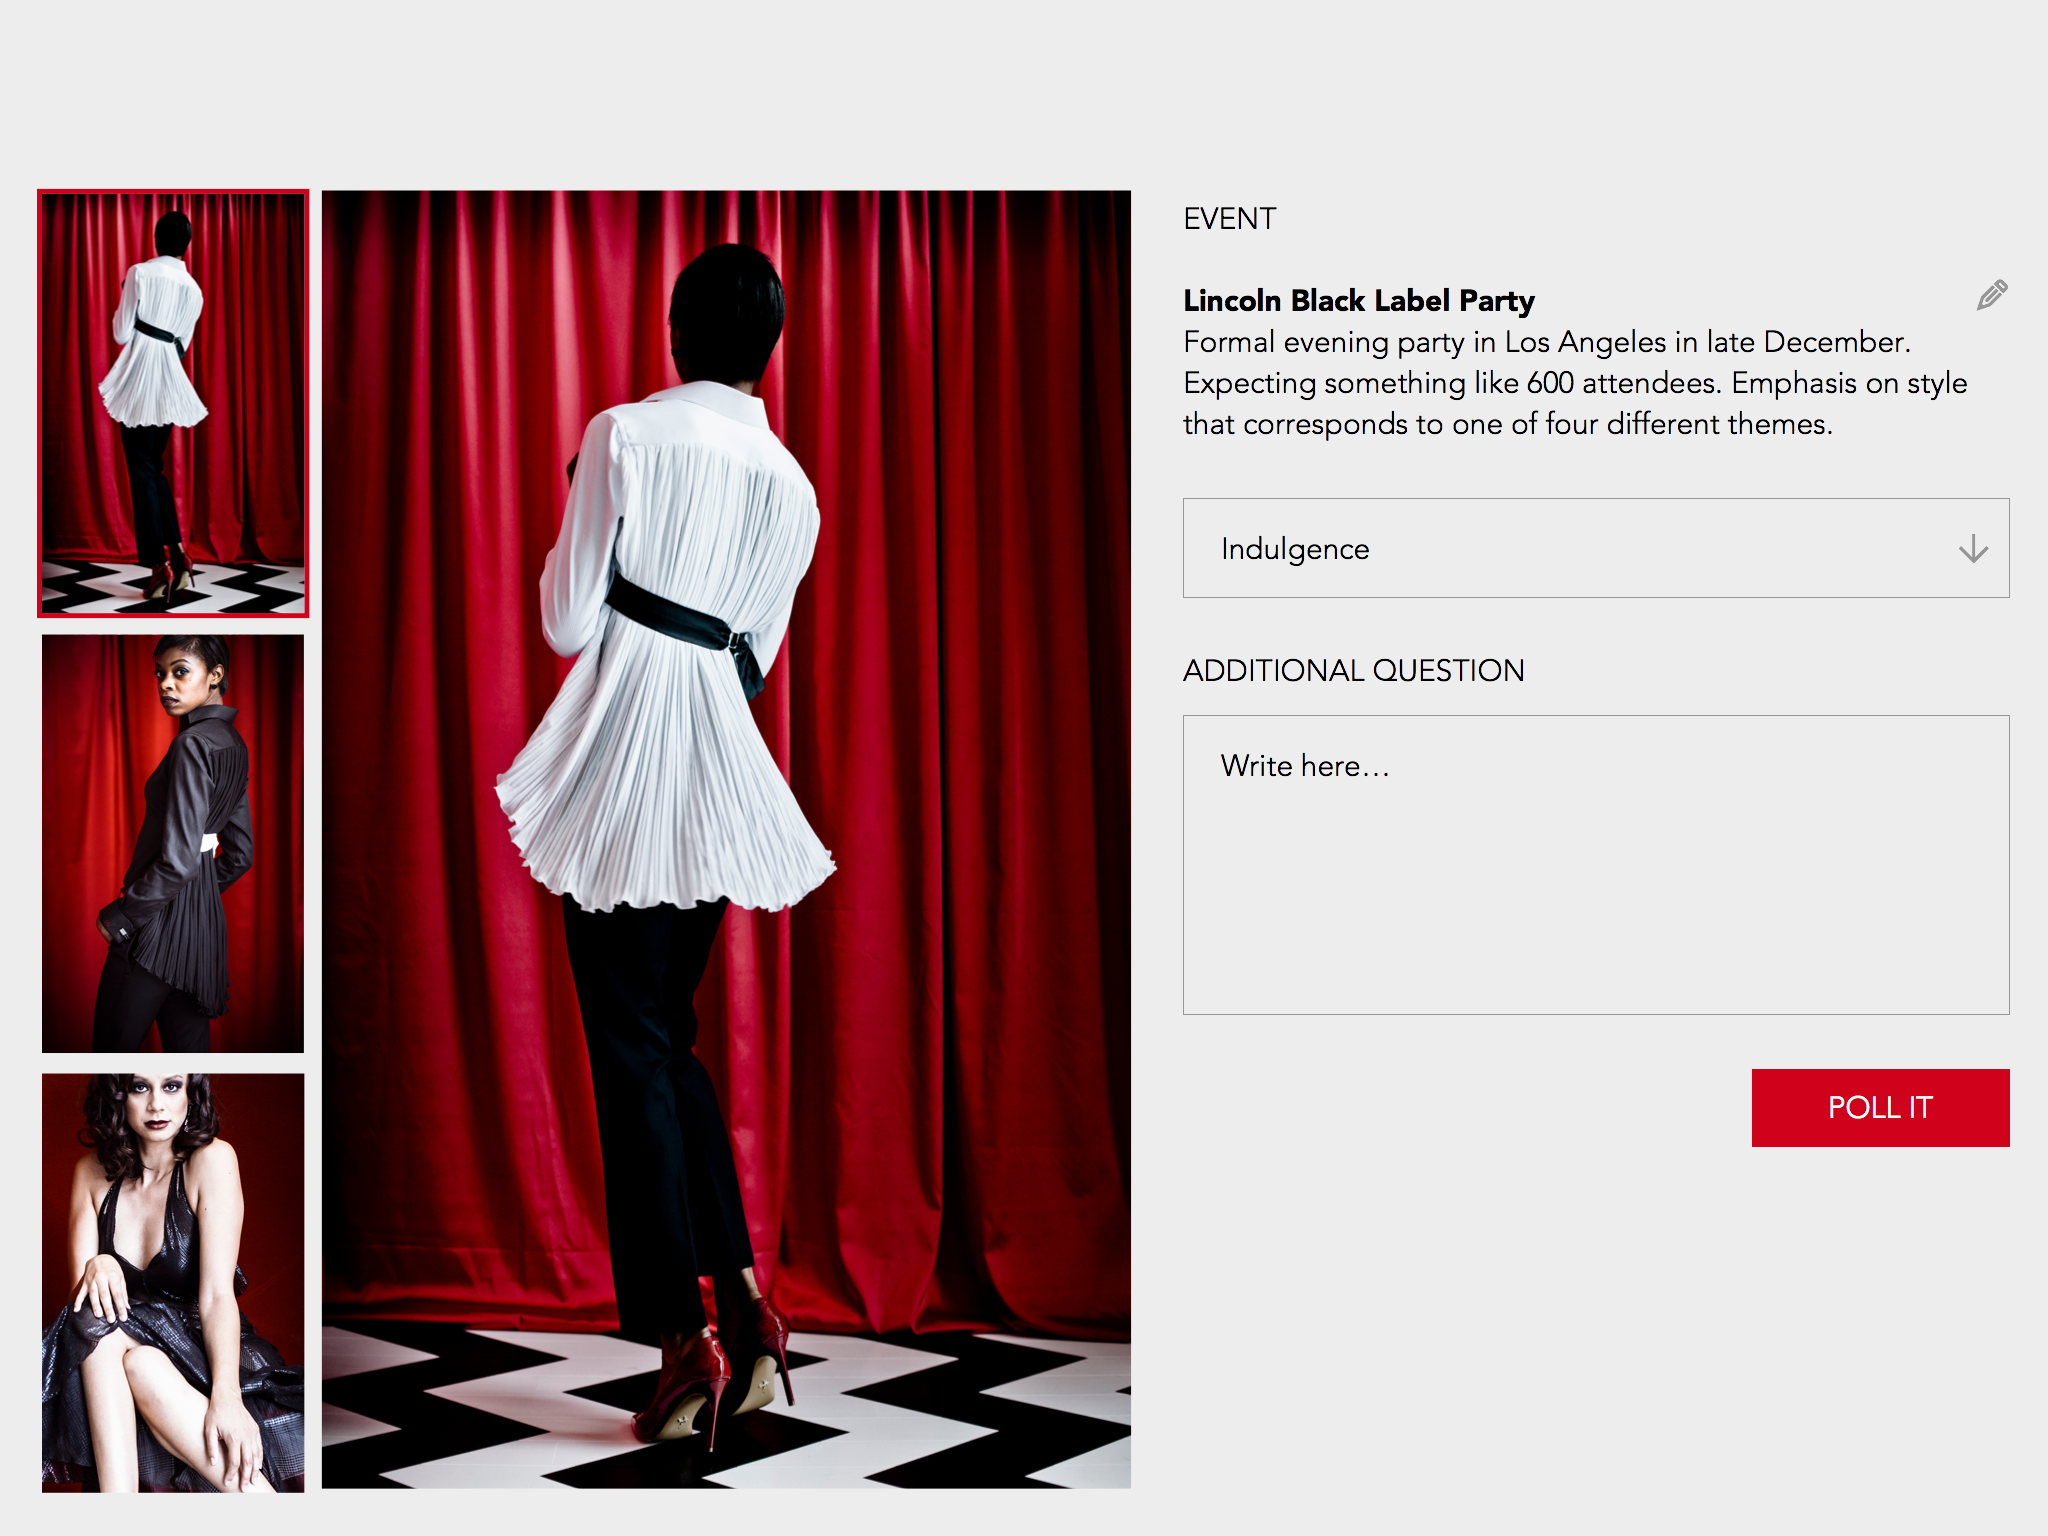
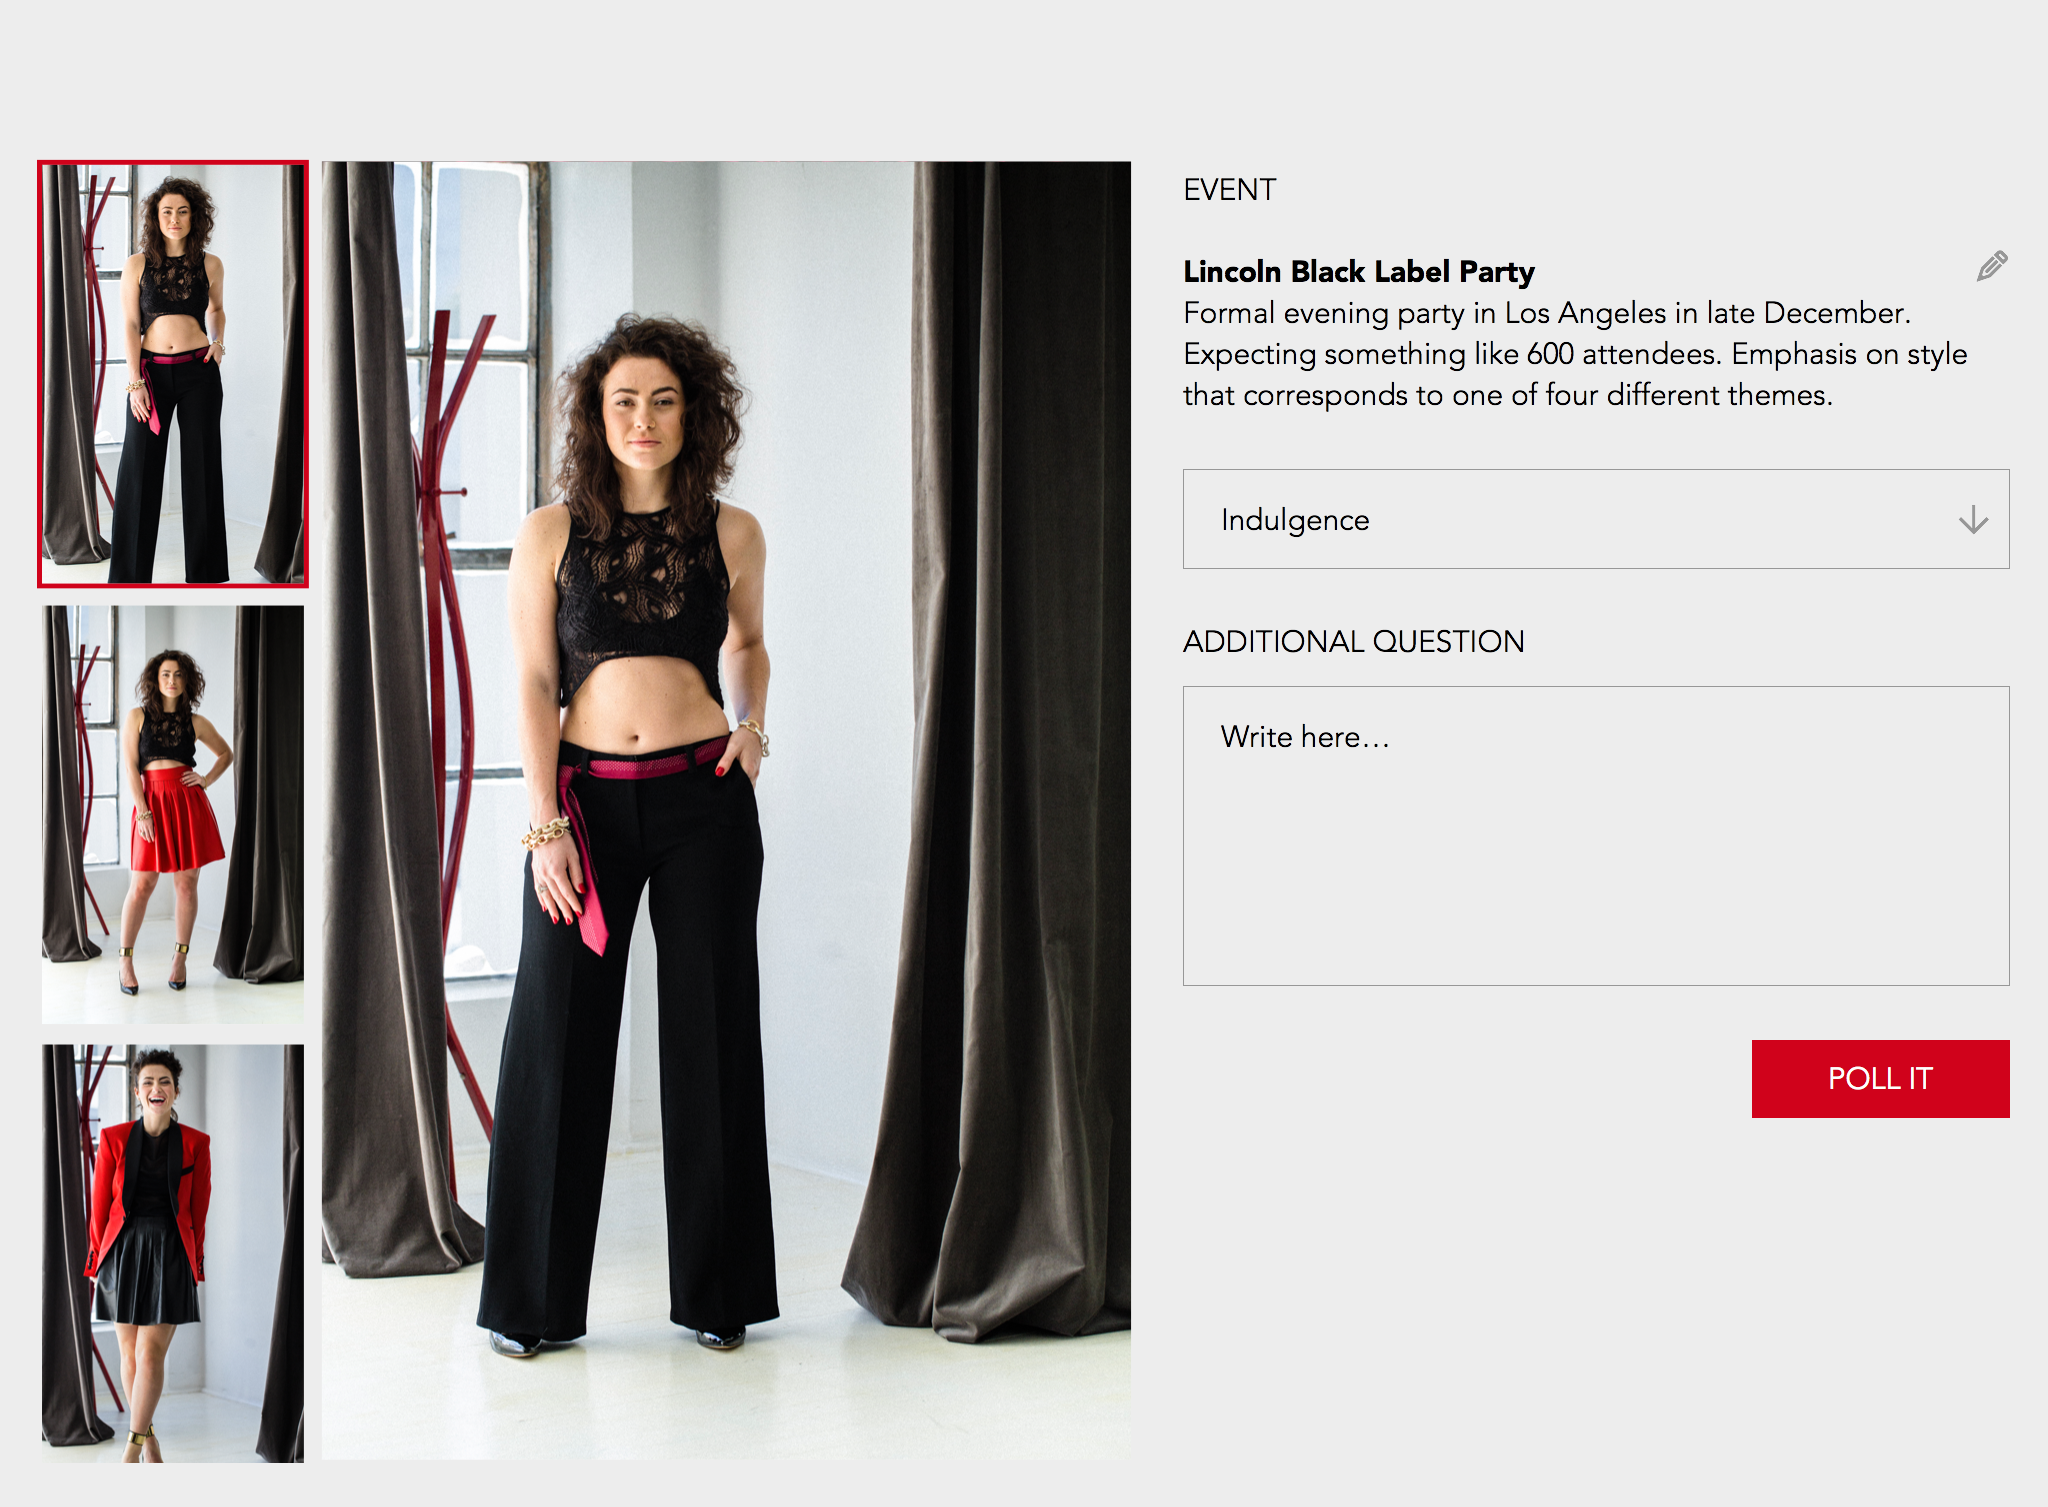
Update the visuals

diff --git a/www/index.html b/www/index.html
@@ -33,26 +33,25 @@
 		<!-- Home Screen -->
 		<div class="screens animate absolute off-screen-right" id="homeScreen">
 			<div>
-				<div id="homeSection" class="content-section animate absolute">
-					<img id="notification" src="artfull/notification.png" alt="" class="animate absolute" onclick="navigate('poll')">
-					<img src="artfull/Home.png" alt="" class="animate">
+				<div id="notification" class="content-section animate absolute">
+					<img src="artfull/notification.png" alt="" class="animate" onclick="navigate('poll')">
 				</div>
-				</a>
+				<div id="home" class="absolute content-section animate">
+						<img src="artfull/Home.png" alt="" class="animate">
+					</div>
 			</div>
 		</div>
 		<!-- Create Poll Screen -->
 		<div id="pollScreen" class="screens animate absolute off-screen-right">
 			<div>
-				<img src="artfull/Create Poll.png" alt="">
+				<img src="artfull/Create Poll.png" alt="" onclick="navigate('stats')">
 			</div>
 		</div>
-		<!-- Camera Roll Screen -->
-		<div class="screens animate absolute off-screen-bottom" id="camera-rollScreen">
-			Camera Roll
-		</div>
 		<!-- Poll Created Screen -->
-		<div class="screens animate absolute off-screen" id="poll-createdScreen">
-			Poll Created Screen
+		<div class="screens animate absolute off-screen-right" id="poll-createdScreen">
+			<div>
+				<img src="artfull/stats.png" alt="">
+			</div>
 		</div>
 	</div>
 	<div id="navBar" class="absolute animate off-screen-top">

diff --git a/www/main.js b/www/main.js
@@ -22,6 +22,10 @@ function navigate(str){
 					"top": "85px",
 					"opacity" : 1
 				});
+				$("#home").css({
+					"top": "170px",
+					"opacity" : 1
+				});
 			}, 4500);
 			break;
 		case "login":
@@ -40,7 +44,10 @@ function navigate(str){
 			animateScreens("homeScreen","on-screen", "off-screen-right");
 			$("#nav1").hide();
 			$("#nav2").show();
-
+			break;
+		case "stats":
+			animateScreens("pollScreen", "on-screen", "off-screen-right");
+			animateScreens("poll-createdScreen", "off-screen-right", "on-screen");
 			break;
 
 		case "phoneApp":

diff --git a/www/css/style.css b/www/css/style.css
@@ -65,3 +65,11 @@
 .content-section-down{
 	top: 0px;
 }
+
+#home{
+	top: 85px;
+}
+
+#pollScreen{
+	top: 15px;
+}
